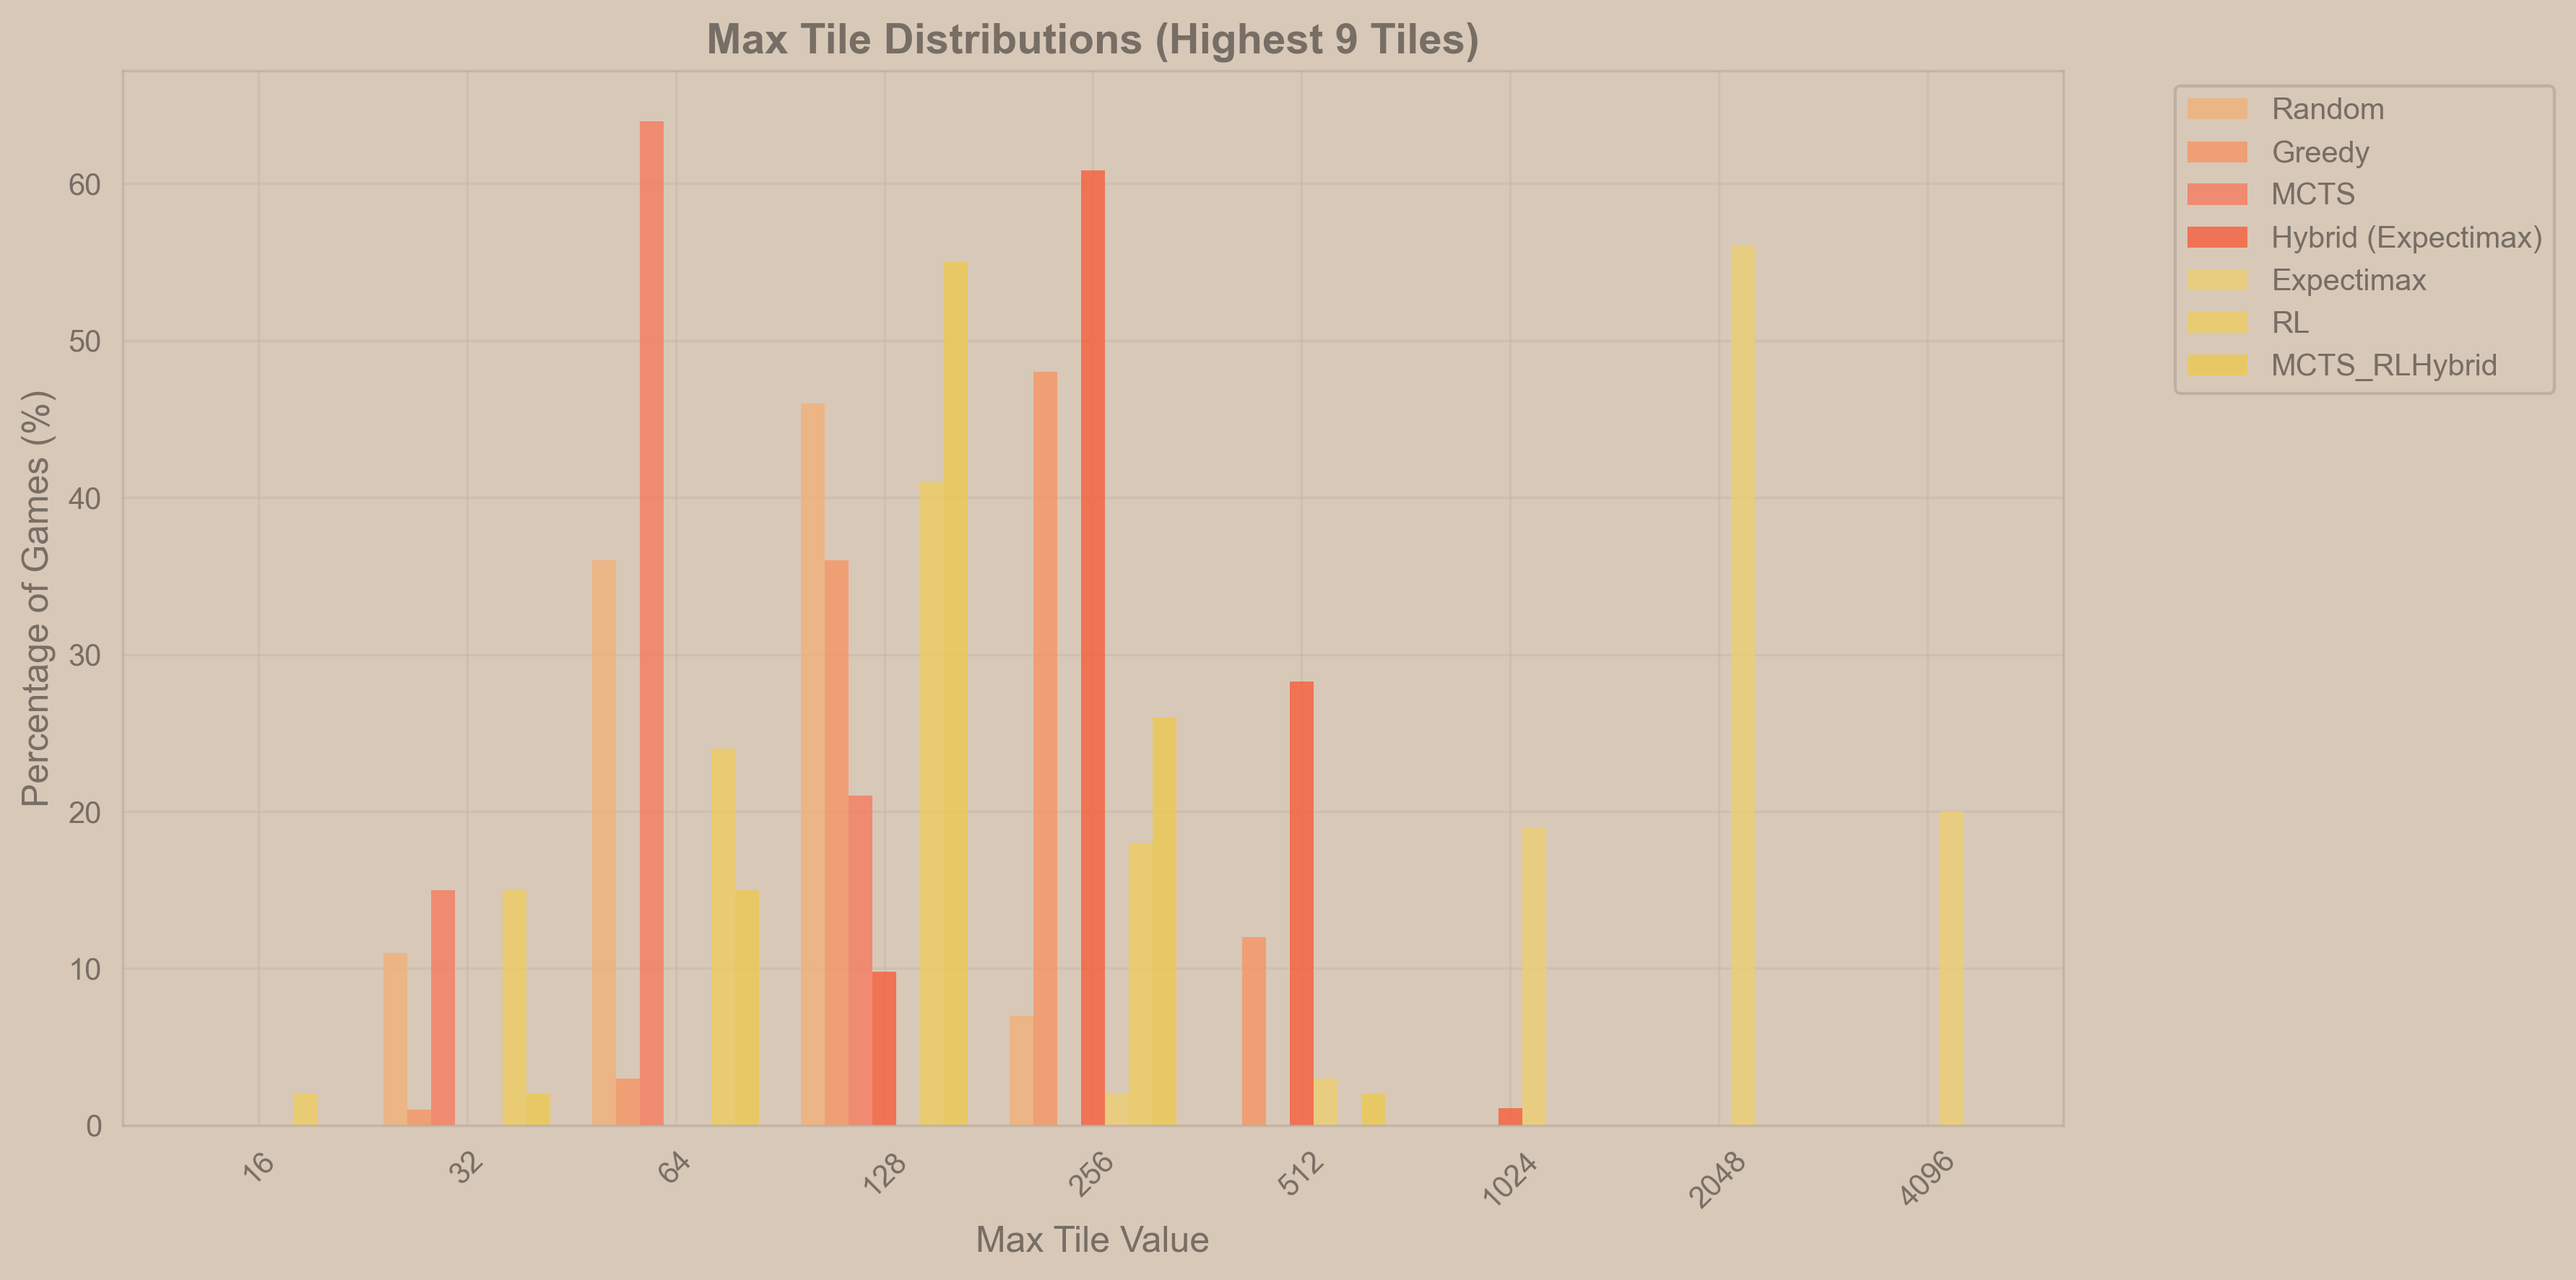
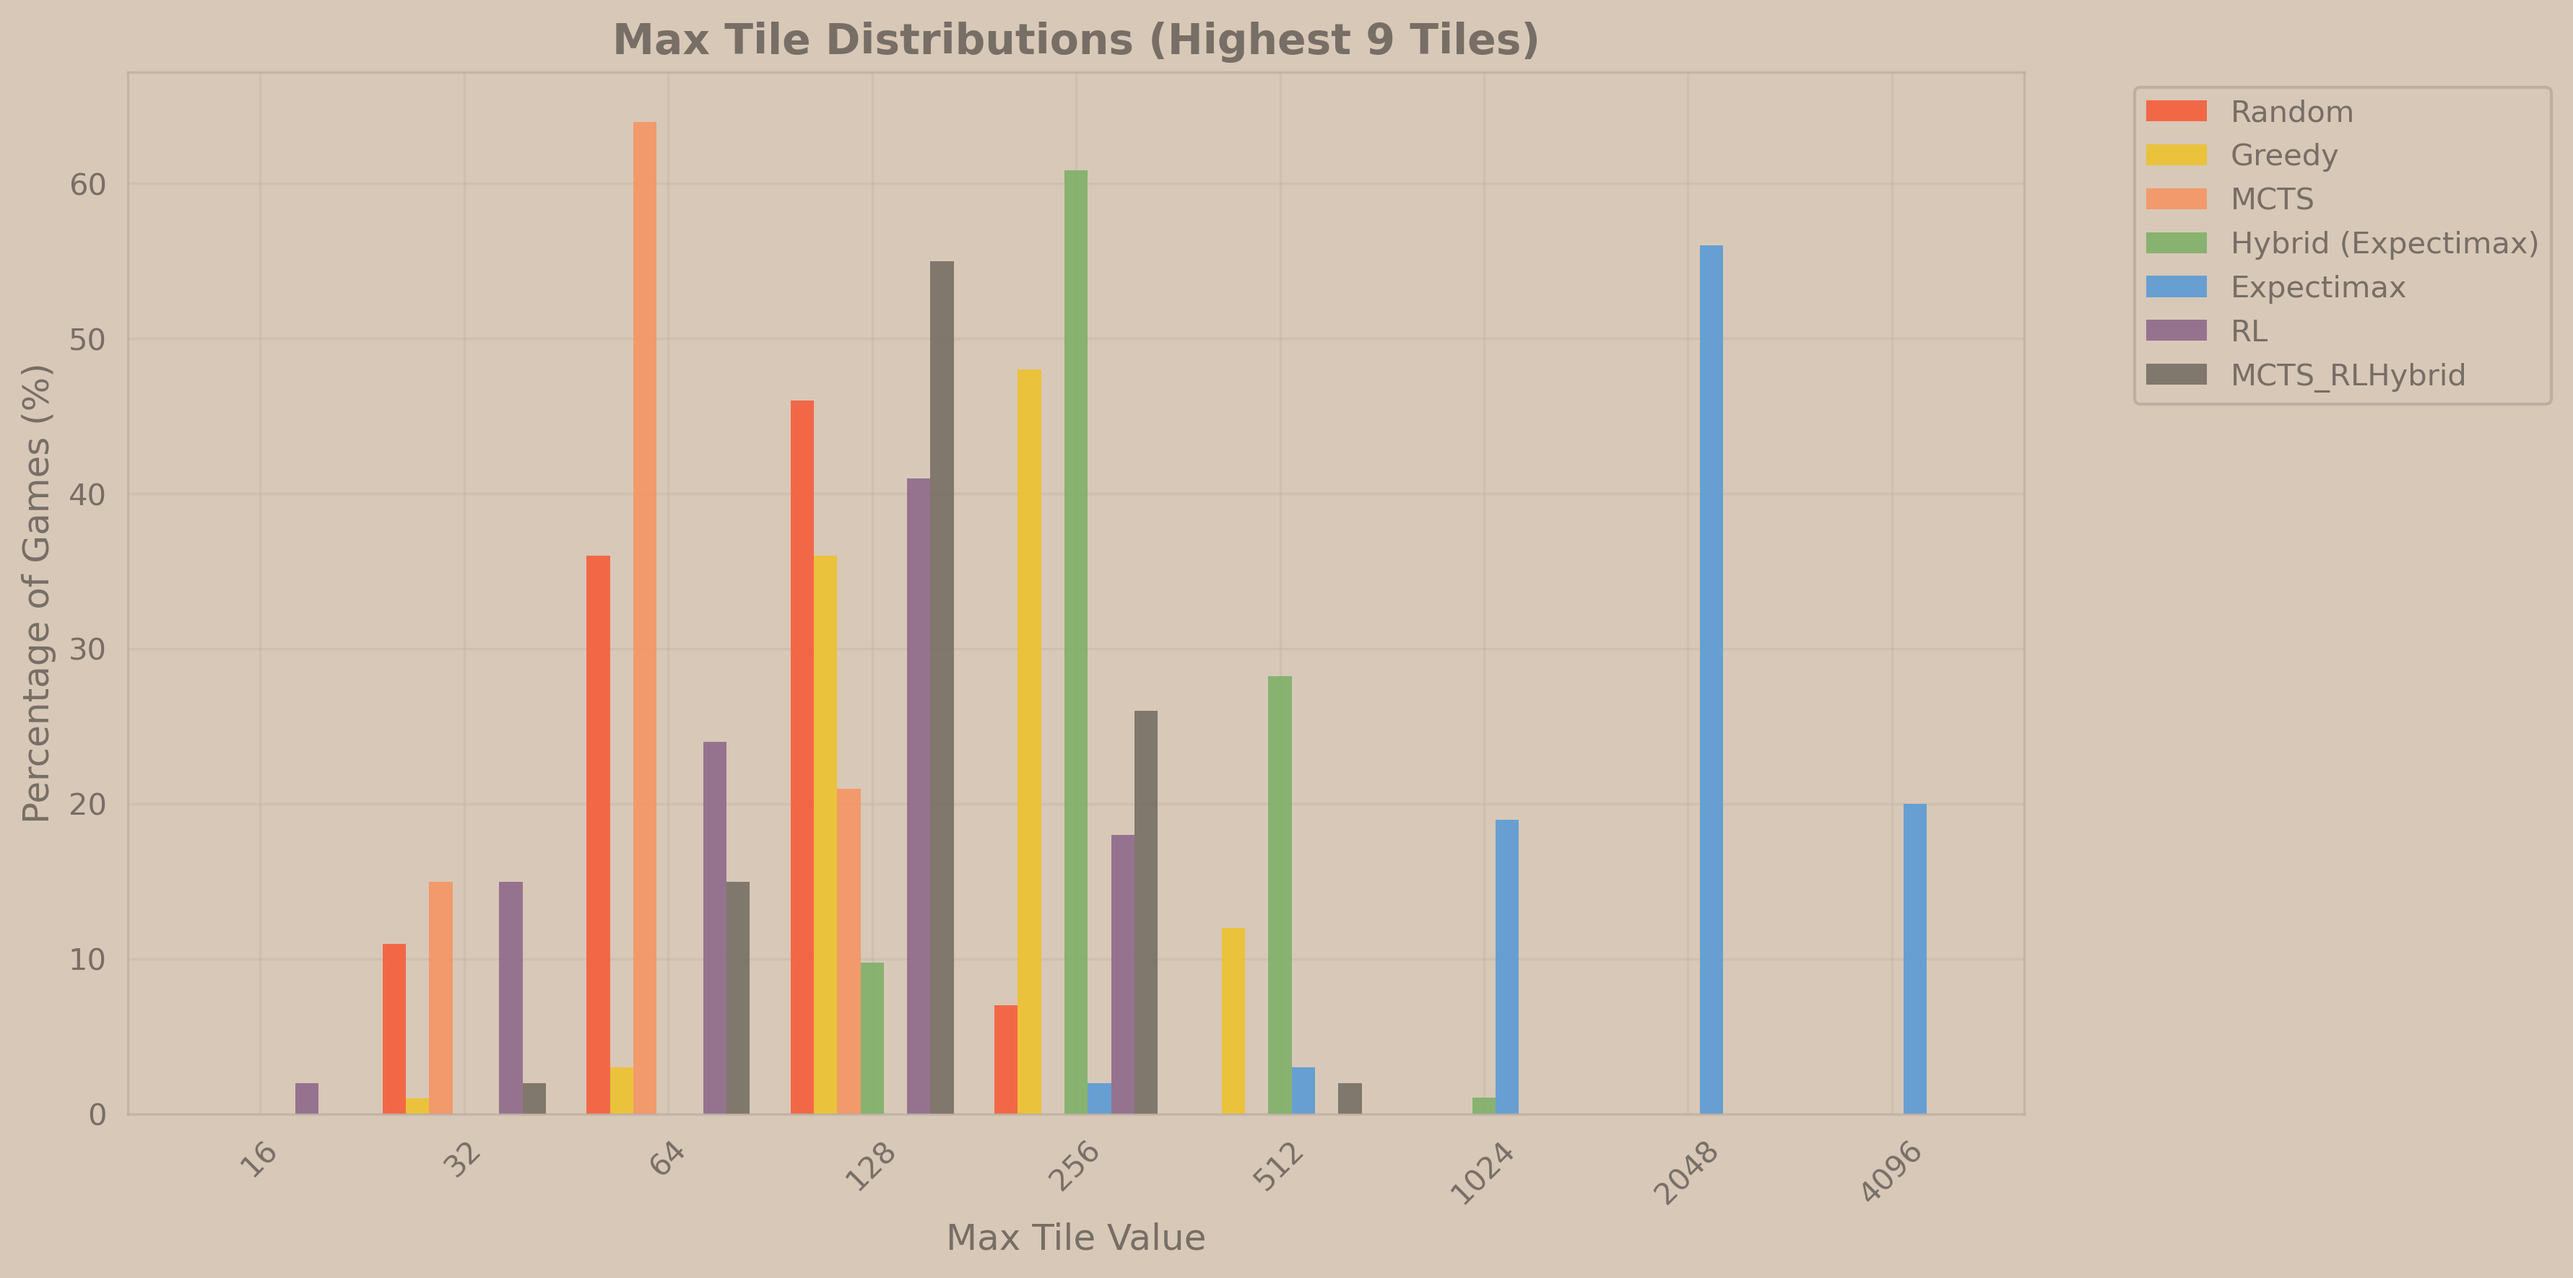
new plots finished

diff --git a/src/utils/visualizer.py b/src/utils/visualizer.py
@@ -18,17 +18,15 @@ class AgentVisualizer:
         """Configure plot styling for consistency and improved aesthetics."""
         sns.set_style("whitegrid")
         
-        # 2048 game tile colors for agent differentiation
         tile_colors = [
-            '#f2b179',  # tile-8
-            '#f59563',  # tile-16
-            '#f67c5f',  # tile-32
-            '#f65e3b',  # tile-64
-            '#edcf72',  # tile-128
-            '#edcc61',  # tile-256
-            '#edc850',  # tile-512
-            '#edc53f',  # tile-1024
-            '#edc22e',  # tile-2048
+            '#f65e3b',  # RED (tile-64)
+            '#edc22e',  # YELLOW (tile-2048)
+            '#f59563',  # ORANGE (tile-16)
+            '#7fb069',  # GREEN
+            '#5b9bd5',  # BLUE
+            '#8e6a8b',  # PURPLE
+            '#776e65',  # BLACK (text)
+            '#ede0c8',  # WHITE (tile-4)
         ]
         self.agent_colors = tile_colors
         self.move_names = {0: "Up", 1: "Right", 2: "Down", 3: "Left"}
@@ -85,9 +83,10 @@ class AgentVisualizer:
             sns.kdeplot(stats["scores"], label=f"{agent_name} (avg: {stats['avg_score']:.0f})", 
                        color=color, linewidth=2, ax=ax)
         
-        ax.set_title("Score Distributions", fontsize=14, fontweight="bold")
-        ax.set_xlabel("Score", fontsize=12)
+        ax.set_title("Score Distributions (Log Scale)", fontsize=14, fontweight="bold")
+        ax.set_xlabel("Score (Log Scale)", fontsize=12)
         ax.set_ylabel("Density", fontsize=12)
+        ax.set_xscale('log')  # Use logarithmic scale for scores
         ax.legend(bbox_to_anchor=(1.05, 1), loc='upper left')
         
         self.apply_game_theme(fig, ax)
@@ -108,12 +107,10 @@ class AgentVisualizer:
         if figsize is None:
             figsize = self.standard_figsize
         
-        # Get all max tiles across all agents and find the highest overall
         all_max_tiles = []
         for stats in self.results.values():
             all_max_tiles.extend(stats["max_tiles"])
         
-        # Get the highest N unique tiles across all agents
         unique_tiles = sorted(set(all_max_tiles), reverse=True)
         highest_tiles = unique_tiles[:max_tiles_to_show]
         selected_tiles = sorted(highest_tiles)
@@ -130,12 +127,11 @@ class AgentVisualizer:
         df = pd.DataFrame(tile_percentages, index=selected_tiles)
         fig, ax = plt.subplots(figsize=figsize)
         
-        # Create color map for agents
         agent_names = list(self.results.keys())
         colors_map = {}
         for i, agent_name in enumerate(agent_names):
             colors_map[agent_name] = self.agent_colors[i % len(self.agent_colors)]
-        df.plot(kind='bar', width=0.8, ax=ax, alpha=0.8, color=colors_map, edgecolor='none')
+        df.plot(kind='bar', width=0.8, ax=ax, alpha=0.9, color=colors_map, edgecolor='none')
         
         ax.set_title(f'Max Tile Distributions (Highest {len(selected_tiles)} Tiles)', fontsize=14, fontweight="bold")
         ax.set_xlabel('Max Tile Value', fontsize=12)
@@ -191,7 +187,7 @@ class AgentVisualizer:
         for i, agent_name in enumerate(agent_names):
             colors_map[agent_name] = self.agent_colors[i % len(self.agent_colors)]
         
-        df.plot(kind='bar', width=0.8, ax=ax, alpha=0.8, color=colors_map, edgecolor='none')
+        df.plot(kind='bar', width=0.8, ax=ax, alpha=0.9, color=colors_map, edgecolor='none')
         ax.set_title('Move Distributions', fontsize=14, fontweight="bold")
         ax.set_xlabel('Move Direction', fontsize=12)
         ax.set_ylabel('Percentage of Moves (%)', fontsize=12)
@@ -224,9 +220,10 @@ class AgentVisualizer:
                        label=f"{agent_name} (avg: {stats['avg_moves']:.0f})", 
                        color=color, linewidth=2, ax=ax)
         
-        ax.set_title("Game Length Distributions", fontsize=14, fontweight="bold")
-        ax.set_xlabel("Game Length (moves)", fontsize=12)
+        ax.set_title("Game Length Distributions (Log Scale)", fontsize=14, fontweight="bold")
+        ax.set_xlabel("Game Length (moves, Log Scale)", fontsize=12)
         ax.set_ylabel("Density", fontsize=12)
+        ax.set_xscale('log')  # Use logarithmic scale for game lengths
         ax.legend(bbox_to_anchor=(1.05, 1), loc='upper left')
         
         self.apply_game_theme(fig, ax)
@@ -256,7 +253,7 @@ class AgentVisualizer:
             colors.append(self.agent_colors[i % len(self.agent_colors)])
         
         fig, ax = plt.subplots(figsize=figsize)
-        bars = ax.bar(agents, win_rates, color=colors, alpha=0.8, edgecolor='none')
+        bars = ax.bar(agents, win_rates, color=colors, alpha=0.9, edgecolor='none')
         
         ax.set_title("Win Rate (% games with 2048+ tile)", fontsize=14, fontweight="bold")
         ax.set_ylabel("Win Rate (%)", fontsize=12)
@@ -298,7 +295,7 @@ class AgentVisualizer:
             colors.append(self.agent_colors[i % len(self.agent_colors)])
         
         fig, ax = plt.subplots(figsize=figsize)
-        bars = ax.bar(agents, efficiencies, color=colors, alpha=0.8, edgecolor='none')
+        bars = ax.bar(agents, efficiencies, color=colors, alpha=0.9, edgecolor='none')
         ax.set_title("Efficiency (Score per Move)", fontsize=14, fontweight="bold")
         ax.set_ylabel("Efficiency (score/move)", fontsize=12)
         ax.set_xlabel("Agent", fontsize=12)
@@ -316,39 +313,6 @@ class AgentVisualizer:
         plt.tight_layout()
         
         filename = f"{output_dir}/efficiency.png"
-        fig.savefig(filename, dpi=300, bbox_inches='tight', facecolor=self.bg_color)
-        print(f"Saved: {filename}")
-        
-        return fig
-    
-    def plot_score_vs_game_length(self, output_dir=".", figsize=None):
-        """Plot score vs game length scatter plot for all agents."""
-        if not self.results:
-            print("No results to visualize")
-            return None
-        
-        if figsize is None:
-            figsize = self.standard_figsize
-        
-        fig, ax = plt.subplots(figsize=figsize)
-        for i, (agent_name, stats) in enumerate(self.results.items()):
-            color = self.agent_colors[i % len(self.agent_colors)]
-            scores = stats["scores"]
-            game_lengths = stats["moves_per_game"]
-            efficiency = stats.get("efficiency", 0.0)
-            
-            ax.scatter(game_lengths, scores, color=color, alpha=0.7, s=30, 
-                      label=f"{agent_name} (eff: {efficiency:.2f})", edgecolors='none')
-        
-        ax.set_title('Score vs Game Length', fontsize=14, fontweight="bold")
-        ax.set_xlabel('Game Length (moves)', fontsize=12)
-        ax.set_ylabel('Final Score', fontsize=12)
-        ax.legend(bbox_to_anchor=(1.05, 1), loc='upper left')
-        
-        self.apply_game_theme(fig, ax)
-        plt.tight_layout()
-        
-        filename = f"{output_dir}/score_vs_game_length.png"
         fig.savefig(filename, dpi=300, bbox_inches='tight', facecolor=self.bg_color)
         print(f"Saved: {filename}")
         

diff --git a/src/utils/simulate.py b/src/utils/simulate.py
@@ -87,8 +87,8 @@ if __name__ == "__main__":
                        help="Number of games to simulate per agent (default: 100)")
     parser.add_argument("-t", "--thinking_time", type=float, default=0.5,
                        help="Thinking time per move in seconds (default: 0.5)")
-    parser.add_argument("-o", "--output_dir", default="../../results",
-                       help="Output directory for results (default: ../../results)")
+    parser.add_argument("-r", "--results_file", default="../../results/agent_results.json",
+                       help="Results file path (default: ../../results/agent_results.json)")
     parser.add_argument("--processes", type=int, default=None,
                        help="Number of processes (default: auto-detect)")
     parser.add_argument("--batch_size", type=int, default=10,
@@ -102,13 +102,13 @@ if __name__ == "__main__":
     
     thinking_time = args.thinking_time
     num_games = args.num_games
-    output_dir = args.output_dir
+    results_file = args.results_file
+    output_dir = os.path.dirname(os.path.abspath(results_file))
     num_processes = args.processes
     batch_size = args.batch_size
     games_per_thread = args.threads_per_batch
     
     os.makedirs(output_dir, exist_ok=True)
-    results_file = f"{output_dir}/agent_results.json"
     
     if os.path.exists(results_file) and args.skip_existing:
         print(f"Results file already exists: {results_file}")
@@ -139,6 +139,7 @@ if __name__ == "__main__":
         print(f"Configuration:")
         print(f"  Games per agent: {num_games}")
         print(f"  Thinking time: {thinking_time}s")
+        print(f"  Results file: {results_file}")
         print(f"  Output directory: {output_dir}")
         
         if num_processes is None:
@@ -203,9 +204,12 @@ if __name__ == "__main__":
     fig_moves = visualizer.plot_move_distributions(output_dir=output_dir)
     if fig_moves:
         plt.close(fig_moves)
-    fig_scatter = visualizer.plot_score_vs_game_length(output_dir=output_dir)
-    if fig_scatter:
-        plt.close(fig_scatter)
+    fig_game_length = visualizer.plot_game_length_distributions(output_dir=output_dir)
+    if fig_game_length:
+        plt.close(fig_game_length)
+    fig_efficiency = visualizer.plot_efficiency(output_dir=output_dir)
+    if fig_efficiency:
+        plt.close(fig_efficiency)
 
     print("\nAnalysis complete!")
     print(f"All files saved in directory: {output_dir}/")

diff --git a/src/utils/test.py b/src/utils/test.py
@@ -118,7 +118,6 @@ if __name__ == "__main__":
     print(f"Thinking time: {args.thinking_time}s")
     print(f"Parallel settings: {num_processes} processes, {args.batch_size} batch size, {args.threads_per_batch} threads/batch")
     
-    # Create agent and analyzer
     agent = create_agent(args.agent_type, thinking_time=args.thinking_time)
     
     analyzer = ParallelAgentAnalyzer(

diff --git a/src/ai/mcts.py b/src/ai/mcts.py
@@ -72,7 +72,6 @@ class MctsAgent(Agent):
         self.heuristic.add_heuristic(SmoothnessHeuristic(), 1.5)
         self.heuristic.add_heuristic(MaxValueHeuristic(), 1.0)
 
-        # Create expectimax agent for rollouts if needed
         if self.rollout_type == "expectimax":
             self.expectimax_agent = ExpectimaxAgent(thinking_time=0.1)  # Fast rollouts
         else:
